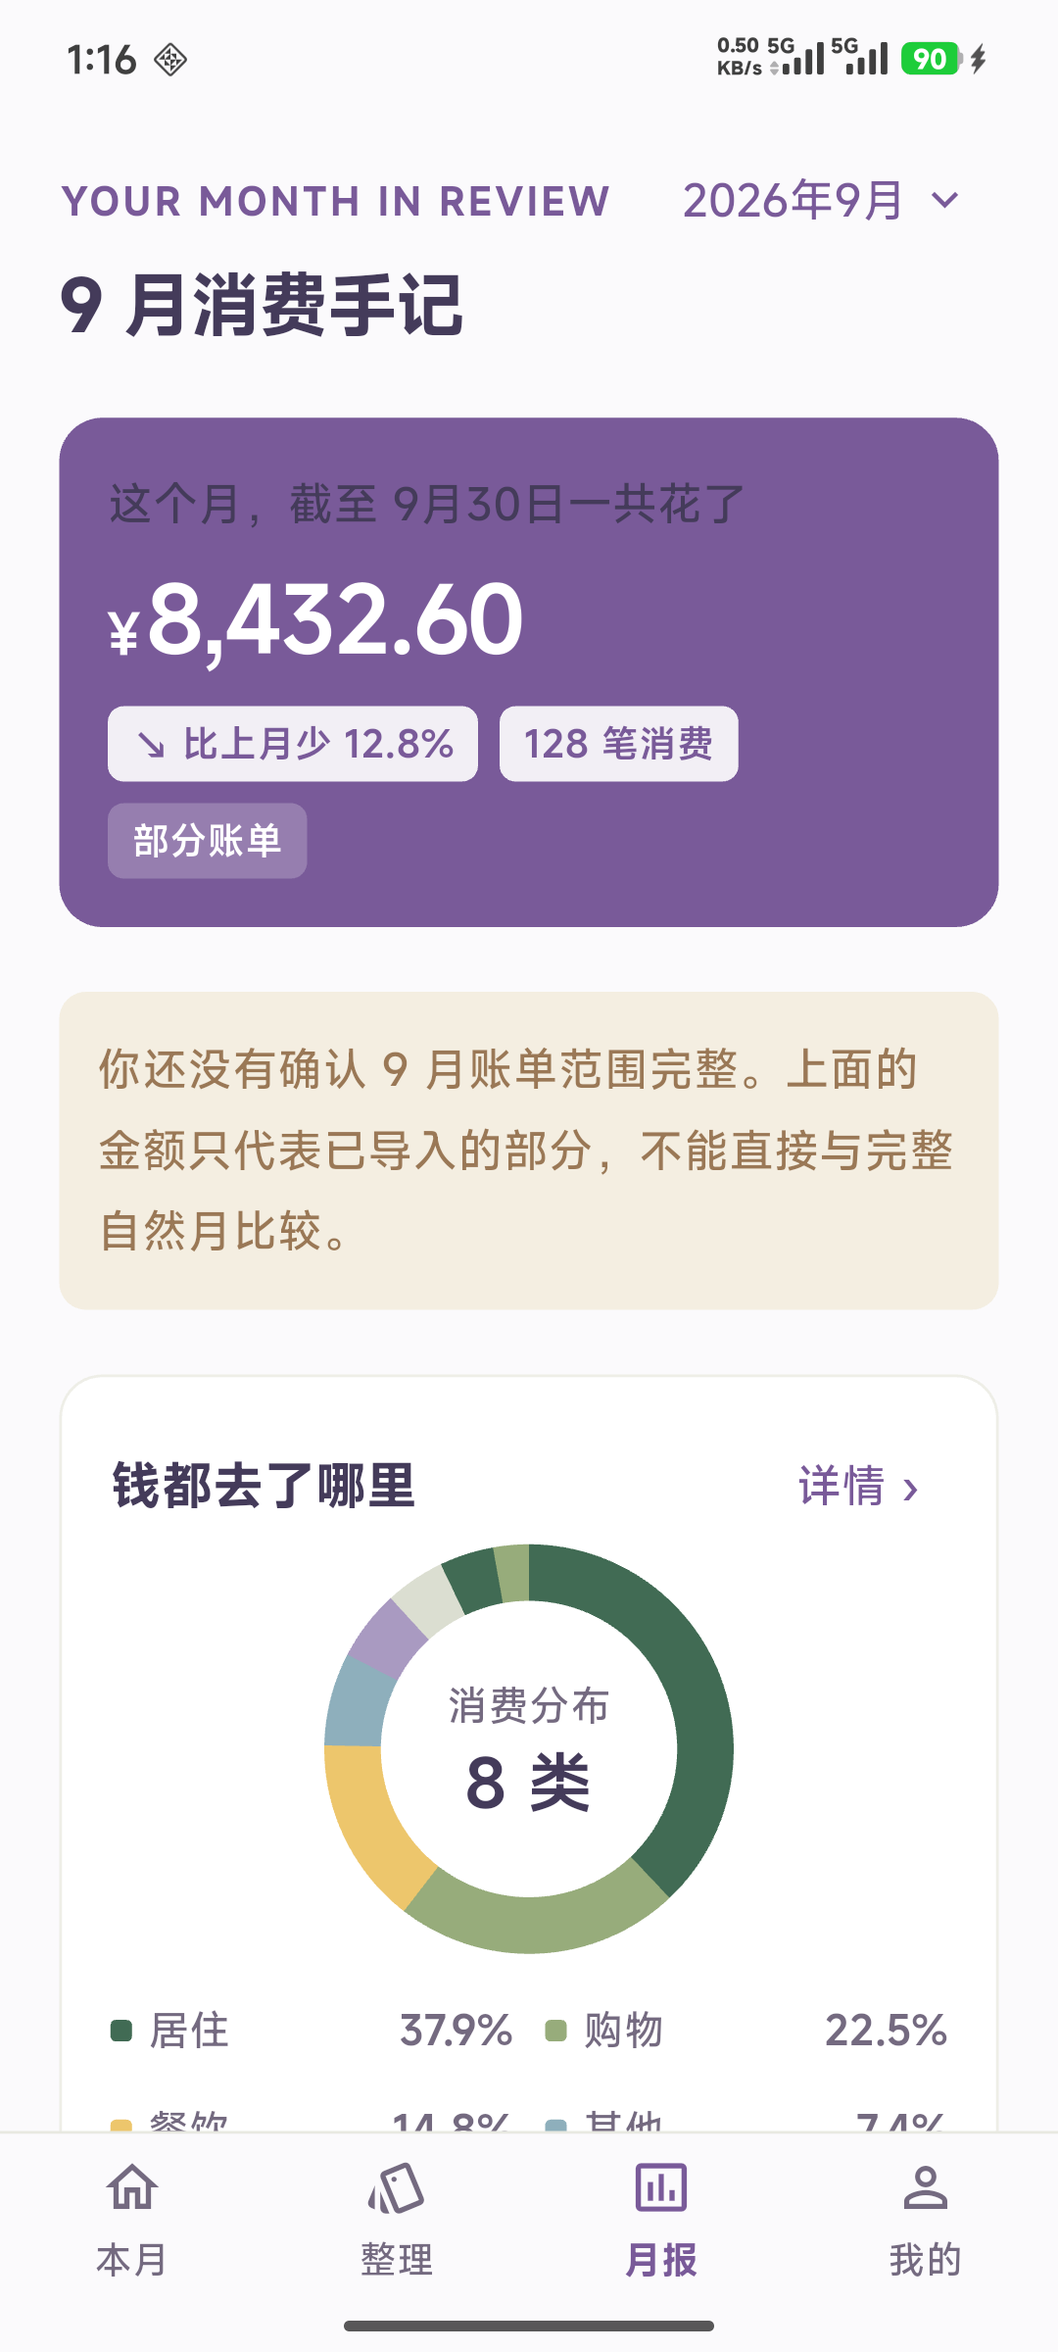
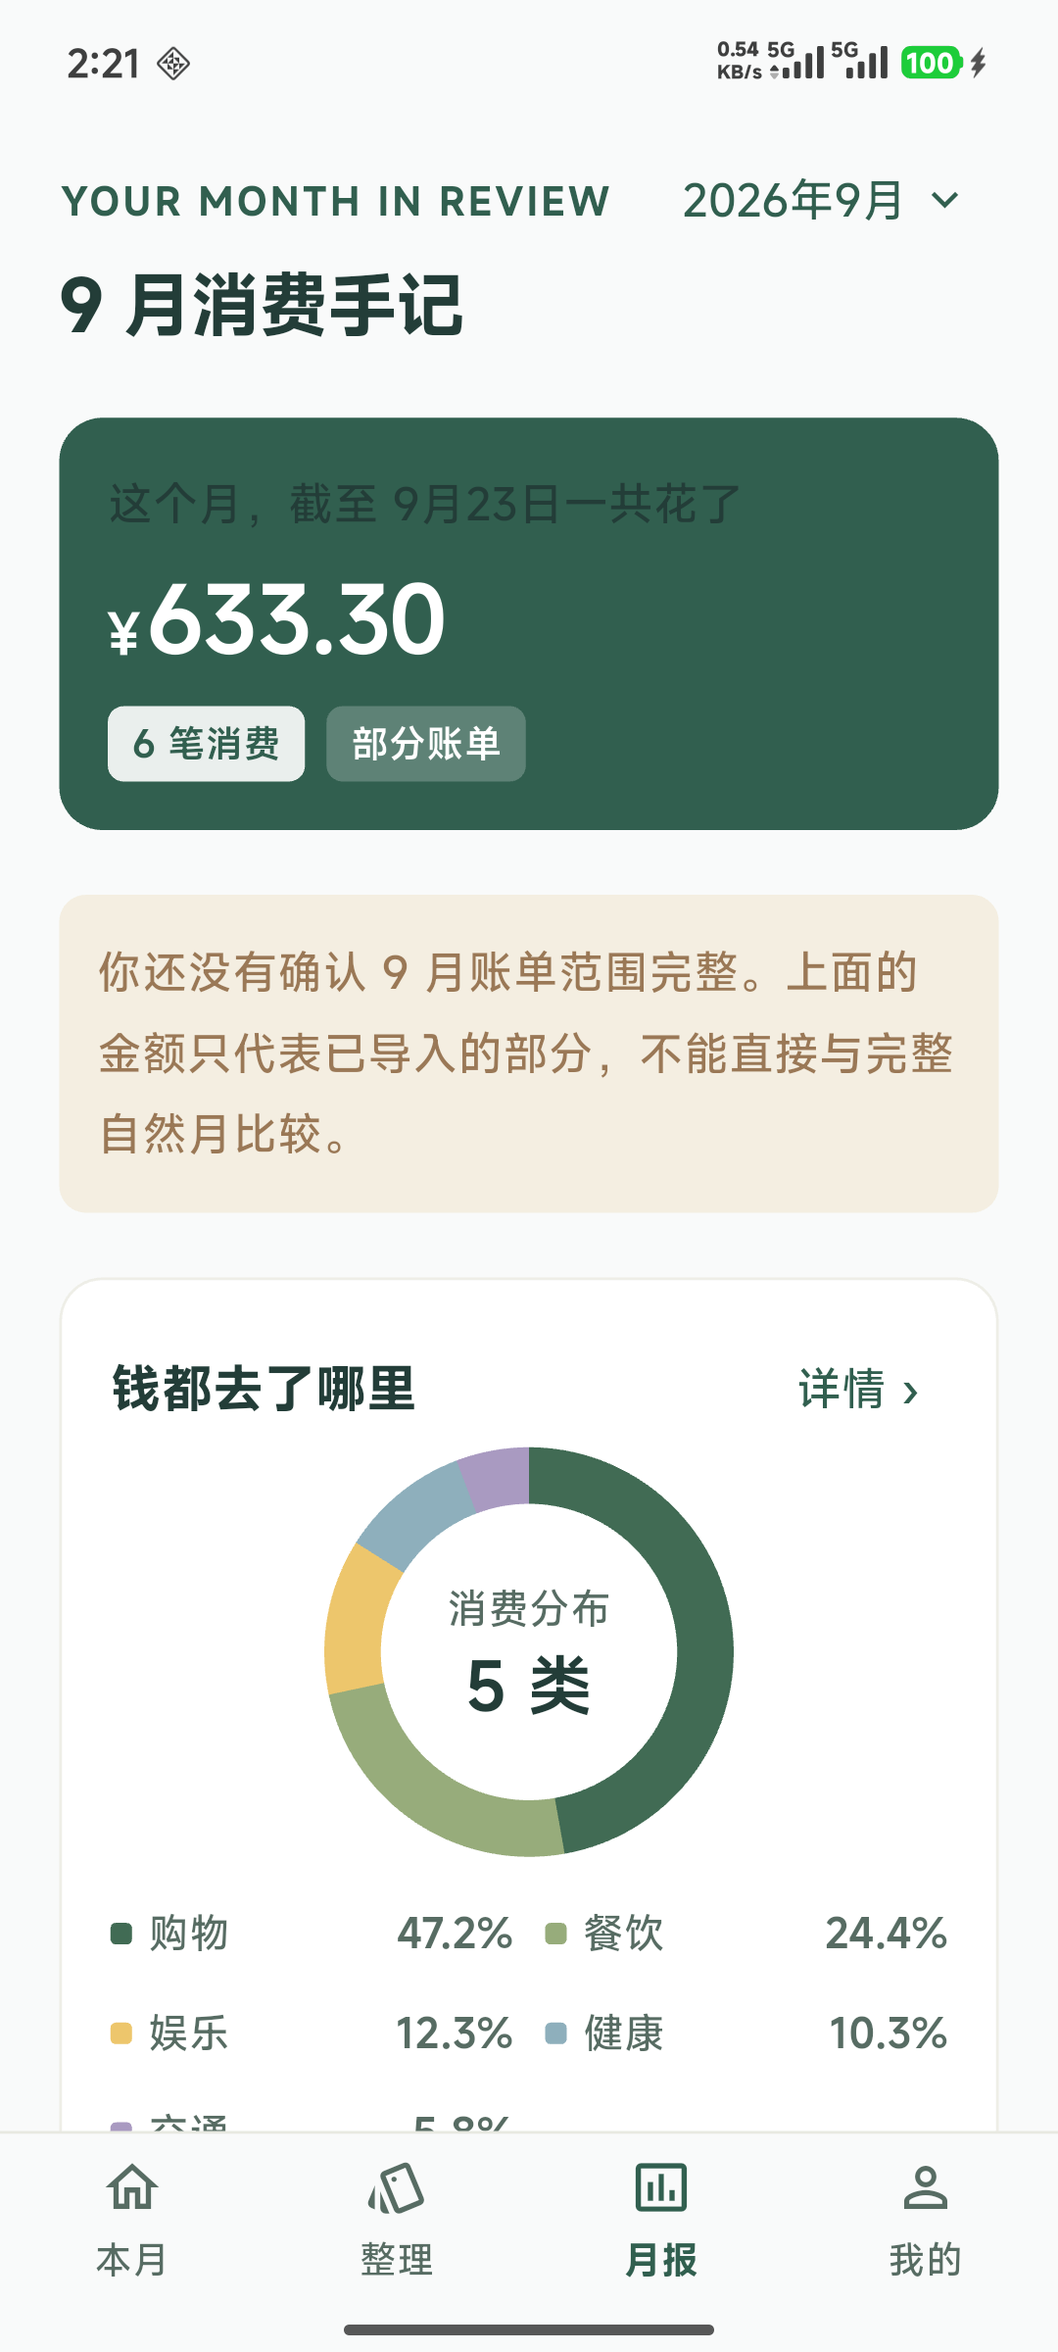
修复趋势页徽标不可见，补齐文档与截图
- 徽标色调修错：YounumBadgeTone.onDark 是给首页深色面板用的，
  用在趋势页的浅色面板上是浅底浅字，直接看不见。已改用默认色调
- 「消费最少的一天」去掉会换行的分隔符，改回一行显示
- DECISIONS.md 追加第 24-28 节：
  「最低消费日」的口径、两个金额口径的区别、报告单一来源、
  趋势窗口保留空月份、月份页补跨年切换
- IMPLEMENTATION_STATUS.md：新增阶段 5 第一批的完成内容与验证表，
  重写「未完成及风险」与「下一步」
- README.md：测试命令补上真机集成测试、目录结构补上 domain/data 分层、
  重写已知限制
- 截图刷新：05-report / 04-cards / 03-home 换成真实查询结果，
  新增 08-trends.png

测试：139 passed；flutter analyze 无问题

diff --git a/app/lib/features/report/report_screens.dart b/app/lib/features/report/report_screens.dart
@@ -505,7 +505,9 @@ class TrendsScreen extends StatelessWidget {
                     '¥${Money.format((insights.monthOverMonthDeltaCents ?? 0).abs(), grouped: true)}',
                   )
                 else
-                  const YounumBadge('暂无可比月份', tone: YounumBadgeTone.onDark),
+                  // 这里是浅色面板，不能用 onDark 色调：那套配色是给
+                  // 首页的深色面板用的，浅底浅字会直接看不见。
+                  const YounumBadge('暂无可比月份'),
                 _TrendChart(points: window, peak: report.trendPeakCents),
               ],
             ),
@@ -531,7 +533,7 @@ class TrendsScreen extends StatelessWidget {
                   label: '消费最少的一天',
                   value: insights.lowestSpendingDay == null
                       ? '—'
-                      : '${month.month}月${insights.lowestSpendingDay!.day}日 · '
+                      : '${month.month}月${insights.lowestSpendingDay!.day}日 '
                           '¥${Money.format(insights.lowestSpendingDay!.expenseCents, grouped: true)}',
                 ),
               ],

diff --git a/app/docs/IMPLEMENTATION_STATUS.md b/app/docs/IMPLEMENTATION_STATUS.md
@@ -4,13 +4,12 @@
 
 ## 当前阶段
 
-**阶段 0（设计核对与决策记录）+ 阶段 1（工程与设计系统）+ 阶段 2
-（数据底座与账目规则）已完成。**
+**阶段 0 + 阶段 1 + 阶段 2 已完成；阶段 5 的「统计与回顾」先做了一批。**
 
 界面按指南第 5 节的 33 个设计状态全部实现并可真机运行。
-阶段 2 起账单已经落在本地 SQLite；**首页、整理页、月报总览与分类占比**
-的数字来自真实查询，月报/趋势/明细/分享/我的的一部分仍是设计稿样例
-（阶段 5 接完），详见「未完成及风险」。
+账单落在本地 SQLite；**首页、整理、月报、趋势、明细、分享、月份、我的**
+的数字全部来自真实查询，且共用同一份报告（见 `DECISIONS.md` 第 26 节）。
+**导入流程（阶段 3）与分类管理 / 拆分 / 退款界面（阶段 4）仍为样例或未接线**。
 
 ---
 
@@ -238,7 +237,7 @@ debug 与 profile 包**都没有产生掉帧日志**，只有 2–3 条亚毫秒
   账本有没有记录不再用「是不是演示账本」近似。
 * 「清除本地数据」真实清空数据库（保留主题与引导状态）。
 
-## 本次验证（阶段 2）
+## 本次验证（阶段 2 与阶段 5 第一批）
 
 | 项目 | 命令 / 方式 | 结果 |
 | --- | --- | --- |
@@ -285,18 +284,55 @@ debug 与 profile 包**都没有产生掉帧日志**，只有 2–3 条亚毫秒
    空队列被当成「整理完成」。已区分「没有账单」与「整理完了」两种空状态。
 
 
+### 阶段 5 第一批：统计与回顾接真实数据
+
+把月报这一组页面从样例数字换成真实查询。新增 `lib/domain/rules/month_insights.dart`：
+`MonthReports.build` 一次算出**概况 + 洞察 + 趋势 + 有记录的月份 + 完整数据集**，
+六个页面共用（`DECISIONS.md` 第 26 节）。
+
+**验证（真机）**
+
+| 项目 | 结果 |
+| --- | --- |
+| 单元测试 | **139 passed**（新增 18 个洞察 / 趋势用例） |
+| 静态检查 | **No issues found!** |
+| 未整理时的月报 | 空状态，并说明「已导入 6 笔但还没有确认归类」 |
+| 6 笔整理完后的月报 | ¥633.30、「截至 9月23日」、部分账单、占比 47.2/24.4/18.1/10.3 |
+| 占比与明细是否对得上 | 逐笔核对一致（交通=优衣库 29900、娱乐=滴滴+周末电影） |
+| 趋势页 | 4–8 月显示「无记录」不伪造；日均写成「已覆盖范围日均 ¥27.53（23 天）」；环比给「暂无可比月份」 |
+| 月份页 | 只有 9 月有状态（待确认），空月份不显示任何金额且按钮不可用 |
+| 清除本地数据 | 回到空账本；演示账本重置为 0/6 |
+| 冷启动日志 | 无 Dart 异常、无崩溃 |
+
+**验证数字与算法的核对**
+
+* 63330 / 23 = 2753 分 = **¥27.53**，且明确标注分母是 23 天而不是 30 天。
+* 未确认范围时写「截至 9月23日」，因为最晚一笔记录在 23 日。
+* 分类占比之和为 100.0%，分类净额之和恒等于总净消费。
+
+**本轮发现并修掉的问题**
+
+1. **环比与分类变化没有任何入口。** 「确认本月范围完整」只能从整理完成页进入，
+   而月报页没有这个入口 —— 于是环比永远显示「暂无可比月份」，
+   用户根本看不到这个功能。已记入「下一步」，**本轮未修**。
+2. **导入批次在「数据管理」里用样例数字充数**（显示「2 份」而实际一份都没有）。
+   已改为如实留空。
+3. **「已经陪你回顾了 6 个月」是样例常量**，而实际只有 1 个月有记录。
+   已改为按真实月份数计算。
+
 ## 未完成及风险
 
-**阶段 2 未做的事情（属于后续阶段）**
+**仍然是样例数据的地方**
 
-* **月报、趋势、明细、分享、我的**里的数字仍是 `SampleData` 样例。
-  首页与整理页已经是真实查询，但点进明细 / 趋势会看到样例数字，
-  两边不一致 —— 这是阶段 5 的任务，不是已完成项。
-* 拆分、非消费（收入 / 转账 / 排除统计）、退款关联的**界面**未接真实数据；
-  规则函数与仓库入口已实现并有测试覆盖，但用户点不到（阶段 4）。
-* 分类管理（新建 / 改名 / 图标）仍写内存，重启回到出厂图标（阶段 4）。
-* 导入流程未接数据库（阶段 3）；`import_batch` / `import_row` /
-  `transaction_origin` / `category_icon_asset` 四张表尚未建。
+* **导入流程**（选择来源 / 上传 / 识别 / 字段映射 / 核对 / 疑似重复 / 异常）
+  全部是 `SampleData`，属阶段 3。
+* **分类管理**（新建 / 改名 / 图标）仍写内存，重启回到出厂图标（阶段 4）。
+* **导入记录**页仍为样例；`import_batch` 表尚未建。
+  因此「数据管理」里的「导入批次」如实留空，不用样例数字充数。
+* **拆分 / 非消费 / 退款关联**的规则与仓库入口已实现并有测试覆盖，
+  但界面还没接上去（阶段 4）。
+* **导出**（PNG / CSV）未接入文件写入，点按后如实提示。
+* 主题页里的预览金额用的是样例数字（仅预览用）。
 
 **阻塞在阶段 3 及以后的功能**
 
@@ -321,13 +357,15 @@ debug 与 profile 包**都没有产生掉帧日志**，只有 2–3 条亚毫秒
 
 * 文字缩放上限 1.6（堆叠卡片固定高度）；阶段 7 应改为自适应高度并放开。
 * 分类图标注册表在内存中，重启会回到出厂图标（阶段 4 落盘）。
-* **首页 / 整理页已是真实查询；月报、趋势、明细、分享、我的仍是样例。**
-  阶段 5 必须把剩下的接完，并保证同一笔交易在所有页面金额一致。
 * 「其他」分类用的是默认叶片图标：图标库里没有 `more` 这个键，
   之前的样例数据写了 `more` 并静默回退成叶片。已直接用回退结果，
   不再铺一个无效键。
 * 卡片页在更小的屏幕或更大字号下可能仍需滚动；
   确认按钮与操作行在本机已保证可见。
+* 「消费最少的一天」只在有消费的日子里比较（`DECISIONS.md` 第 24 节）。
+* 趋势的环比与分类变化需要**连续两个范围完整的月份**。
+  目前只能靠单元测试覆盖：演示账本只有一个月的数据，
+  而「确认范围完整」的入口在完成页，还没有从月报页直接确认的入口。
 
 **环境遗留问题（迁移不能解决）**
 
@@ -340,13 +378,14 @@ debug 与 profile 包**都没有产生掉帧日志**，只有 2–3 条亚毫秒
 
 ## 下一步（最小任务）
 
-1. **阶段 5 收尾（把剩下的样例换掉）**：月报 / 趋势 / 明细 / 分享接真实的
-   `MonthlyStats` 与 `MonthOverview` —— 它们已经是就绪的纯函数，
-   主要工作是改页面取数，不是重写逻辑。趋势需要「有记录的月份」逐月计算，
-   不足两个完整月时不显示环比。
-2. **阶段 4 界面接线**：详情页改用真实交易 ID、拆分走 `AllocationRules`、
-   非消费走交易性质、退款关联走 `RefundRules` + `linkRefund`；
-   分类管理落库并补 v1 → v2 迁移。
-3. **阶段 3 导入**：建 `import_batch` / `import_row` / `transaction_origin`，
-   先做通用 CSV → 字段映射 → 核对 → 提交。
+1. **阶段 4：把已实现但用户点不到的规则接上界面**
+   —— 详情页编辑、拆分（`AllocationRules`）、非消费（交易性质）、
+   退款关联（`RefundRules` + `linkRefund`）。这些的规则与仓库入口
+   都已实现并有测试，缺的是界面。
+2. **在月报页补上「确认本月范围完整」的入口**。
+   现在只能从整理完成页确认，没有它就看不了环比与分类变化 ——
+   这是用户视角下最明显的一个缺口。
+3. **阶段 3：导入**。建 `import_batch` / `import_row` / `transaction_origin`，
+   先做通用 CSV → 字段映射 → 核对 → 提交；没有它，真实账本永远是空的。
+4. **阶段 5 剩余**：导出 PNG / CSV（含防公式注入），导入记录页接真实批次。
 

diff --git a/app/README.md b/app/README.md
@@ -61,7 +61,8 @@ flutter test integration_test/database_test.dart -d <device-id>
 > `docs/DECISIONS.md` 第 18.1 节。
 
 真机运行截图见 [`docs/screenshots/`](docs/screenshots/)：
-欢迎页、空首页、本月首页、整理卡片、月报、右滑确认后、分类选中态。
+欢迎页、空首页、本月首页、整理卡片、月报、右滑确认后、分类选中态、消费趋势。
+截图里的金额都是演示账本的真实查询结果（总消费 ¥633.30，与指南 10.1 的基准一致）。
 
 ### 本机工具链注意事项
 
@@ -93,10 +94,15 @@ App 不做登录，冷启动进入欢迎页，之后不再重复出现。
 | 导入流程（8 个状态） | 空首页 →「导入月账单」→ 任一来源 → 文件与月份 → 识别账单 → 核对 → 疑似重复 |
 | 卡片整理闭环 | 底部「整理」→ 选分类 → 右滑或点确认；左滑进稍后队列；撤销可回退 |
 | 整理完成 / 月报 | 把 6 笔全部处理完 →「看看我的整理结果」→ 勾选范围完整 → 月报 |
+| 数据看板 | 底部「月报」→ 概况 / 分类详情 / 趋势（近 6 个月）；底部「本月」→「查看明细 ›」 |
 | 六套主题 | 「我的」→「主题与配色」；预设点选立即生效，取色器拖动即时预览 |
 | 分类图标 | 「我的」→「分类管理」→ 任一分类；保存后卡片与分类网格同步变化 |
 | 保存失败路径 | 设计走查 → 打开「交互验证开关」→ 回卡片页确认，卡片应回弹且用途保留 |
 | 无消费空态 | 设计走查 →「月报 · 无消费空状态」 |
+
+> **环比与分类变化需要连续两个范围完整的月份。**演示账本只有一个月的数据，
+> 所以实机上这些位置会显示「暂无可比月份」而不是数字 —— 这是**正确行为**，
+> 不是未完成。相关口径由单元测试覆盖（`test/month_insights_test.dart`）。
 
 ## 目录结构
 
@@ -166,20 +172,23 @@ muted     = primary → #707570 60%
 
 ## 已知限制
 
-* **首页与整理页已是真实数据库查询**（本地 SQLite，10 张表）。
-  **月报、趋势、明细、分享、我的**仍展示 `lib/data/sample/sample_data.dart`
-  里的样例数字，因此从首页点进明细会看到两组对不上的金额 —— 阶段 5 接通。
-* 拆分、非消费、退款关联的**规则与仓库入口已实现并有测试覆盖**，
-  但界面还没接上去（阶段 4）。
-* 分类管理（新建 / 改名 / 图标）仍写内存，重启回到出厂图标（阶段 4）。
-* 文件选择、解析、去重、XLSX、编码识别均未实现（阶段 3）。
+* **首页、整理、月报、趋势、明细、分享、月份、我的已经是真实数据库查询**
+  （本地 SQLite，10 张表），且共用同一份报告，所以同一笔交易在哪个页面
+  都是同一个数字。
+* **导入流程**（选择来源 / 上传 / 识别 / 字段映射 / 核对 / 疑似重复 / 异常）
+  仍是 `lib/data/sample/sample_data.dart` 里的样例数据（阶段 3）。
+* **分类管理**（新建 / 改名 / 图标）仍写内存，重启回到出厂图标（阶段 4）。
+* **拆分 / 非消费 / 退款关联**的规则与仓库入口已实现且有测试覆盖，
+  但界面还没接上去，用户点不到（阶段 4）。
+* **导出**（PNG / CSV）未接入文件写入，点按后如实提示。
+* 「导入记录」页仍为样例；「数据管理」里的「导入批次」如实留空。
+* 「确认本月范围完整」目前只能从整理完成页进入，月报页还没有入口。
 * 未接入系统 Photo Picker，分类图标只能使用 12 个预设矢量图标。
-* CSV / PNG 导出未实现，点击后如实提示「待接入」。
 * 提醒未接入后台任务与通知权限。
 * 文字缩放上限 1.6（原因见 `docs/DECISIONS.md` 第 4 节）。
 * 横屏与平板未做专门适配；界面按竖屏手机设计，窄屏可滚动。
-* 旋转、大字号、TalkBack 未在阶段 2 回归（改了首页与整理页布局）。
-* 自动化测试已有 **121 个单元测试 + 20 个真机数据库测试**，
+* 旋转、大字号、TalkBack 未在阶段 5 回归。
+* 自动化测试已有 **139 个单元测试 + 20 个真机数据库测试**，
   但界面层的 widget test 与截图回归仍未编写（阶段 7）。
 * 真实平台账单文件的兼容性**未经验证**，没有任何真实样本被测试过。
 * 本机 `sdkmanager` 不可用，后续需要补装 SDK 组件时会受阻（见上文）。

diff --git a/app/docs/DECISIONS.md b/app/docs/DECISIONS.md
@@ -401,3 +401,54 @@ debug 模式下 Dart 是 JIT 解释执行、断言全开、没有 AOT 优化，
 
 **月报、趋势、明细、分享、我的**这几个页面在阶段 5 之前仍然展示样例数据
 （`SampleData`），这一点如实记在实现状态文档里，不假装已经接通。
+
+## 24. 「消费最少的一天」只看有消费的日子
+
+设计稿样例里这个位置显示「9月7日 · ¥0.00」。那是因为原型的样例月份每天都有消费，
+所以「最低日」看起来自然。
+
+真实数据下大多数日子没有消费，于是「最低日」几乎必然是最早的那个空日子，
+写出来是「9月1日 · ¥0.00」—— 正确但没有信息量。
+
+因此**只在有消费的日子里比较**。这是刻意的偏离，理由记录在此。
+如果以后要恢复「含空日子」的口径，改 `MonthInsights.lowestSpendingDay` 一处即可。
+
+## 25. 「已导入」与「已确认归类」是两个口径
+
+月度统计里有两个数字，不能互相冒充（第 22 节从首页的角度说过一次，这里是全景）：
+
+| 数字 | 含义 | 用在哪 |
+| --- | --- | --- |
+| `importedExpenseCents` | 账单里一共有多少支出，**不管整理到哪一步** | 首页「已导入支出」、来源明细、月份页 |
+| `expenseCents` | **已确认归类**的消费分配总额 | 净消费、分类占比、日均、环比、洞察 |
+
+混用会出现两种错：用前者画分类占比，会在没整理完时给出错误比例；
+用后者显示「已导入」，会在整理之前假装这个月没花钱。
+
+## 26. 报告只有一个来源
+
+首页、月报、趋势、明细、分享、月份页全都读同一个 `MonthReport`。
+
+它是 `MonthReports.build` 一次算出来的：概况 + 洞察 + 趋势 + 有记录的月份 + 完整数据集。
+好处是**「同一笔交易在所有页面金额一致」从源头成立**，而不是靠每个页面各自小心 ——
+后者只要有人漏改一处就会破。
+
+代价：每次提交或切月都会重算一次报告，比按需查询多一点开销。
+演示账本只有 6 条记录，个人账本通常是几百到几千条，这个开销可以忽略；
+真到需要时再按月份下推聚合，而不是现在就把公式拆成两份。
+
+## 27. 趋势窗口保留空月份
+
+近 6 个月的柱子按**连续自然月**排，没有记录的月份保留（柱子高度为 0，标签仍在），
+而不是把空月份从窗口里挤掉。
+
+否则「近 6 个月」在只有两个月数据时会显示成「近 2 个月」，
+用户看不出中间断了哪些月份。数据库里没有记录 ≠ 那个月不存在。
+
+## 28. 月份页加了跨年切换
+
+设计稿只显示「2026 年」，没有年份切换。这在只有一个月数据时看不出问题，
+但一旦用户跨年使用，2025 年的记录就**没有任何入口**。
+
+因此在年份两侧加了「上一年 / 下一年」。这是为了不留下死路而做的最小补充，
+不是设计稿要求的内容。
